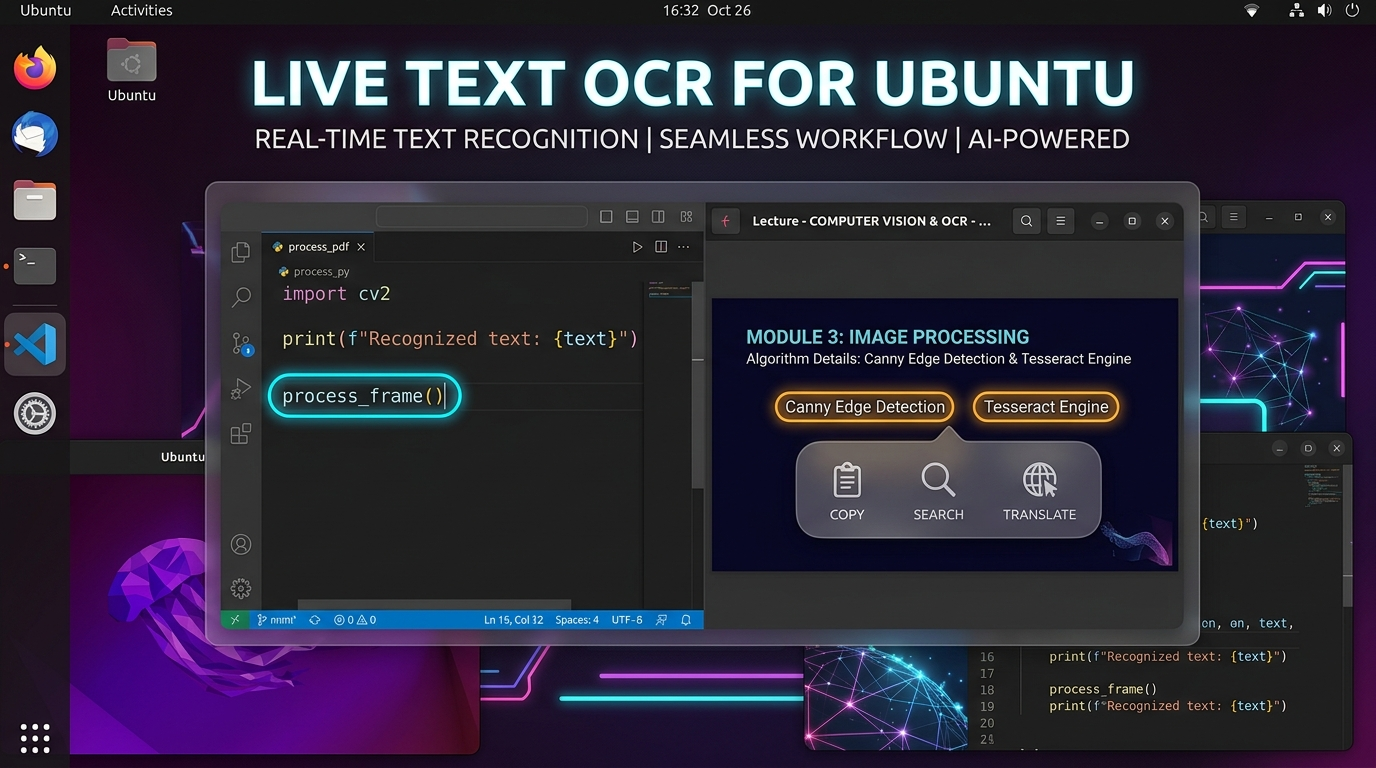
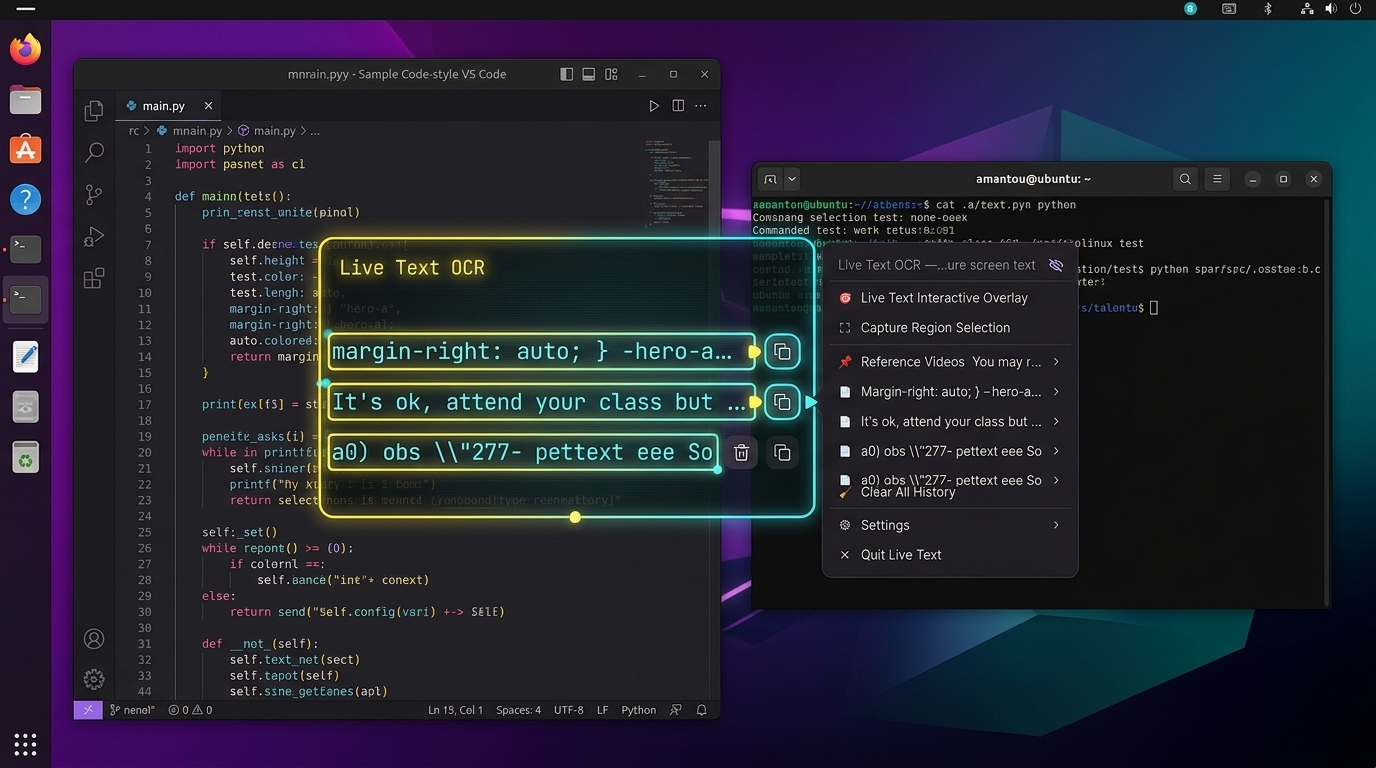
changed image

diff --git a/src/components/AnimatedLogo.jsx b/src/components/AnimatedLogo.jsx
@@ -1,0 +1,110 @@
+import React from 'react';
+import { motion } from 'framer-motion';
+
+const pathVariants = {
+  hidden: {
+    pathLength: 0,
+    opacity: 0,
+    fillOpacity: 0,
+  },
+  visible: (delay) => ({
+    pathLength: 1,
+    opacity: 1,
+    fillOpacity: 1,
+    transition: {
+      pathLength: { duration: 1.2, ease: [0.22, 1, 0.36, 1], delay },
+      opacity: { duration: 0.3, delay },
+      fillOpacity: { duration: 0.6, delay: delay + 0.8 },
+    },
+  }),
+};
+
+const glowVariants = {
+  initial: { opacity:0, scale: 0.8 },
+  animate: {
+    opacity: [0, 0.4, 0],
+    scale: [1, 1.15, 1],
+    transition: { duration: 2.5, repeat: Infinity, ease: 'easeInOut' },
+  },
+};
+
+const AnimatedLogo = ({
+  className = 'w-10 h-10',
+  color = '#4dff00',
+  glowColor = '#4dff00',
+  showGlow = true,
+  animateOnHover = true,
+}) => {
+  return (
+    <motion.svg
+      className={className}
+      viewBox="0 0 56.6 42.1"
+      xmlns="http://www.w3.org/2000/svg"
+      initial="hidden"
+      animate="visible"
+      whileHover={animateOnHover ? { scale: 1.08 } : {}}
+      transition={{ type: 'spring', stiffness: 300, damping: 15 }}
+    >
+      <defs>
+        <filter id="logoGlow" x="-50%" y="-50%" width="200%" height="200%">
+          <feGaussianBlur in="SourceGraphic" stdDeviation="3" result="blur" />
+          <feColorMatrix
+            in="blur"
+            type="matrix"
+            values="1 0 0 0 0  0 1 0 0 0  0 0 1 0 0  0 0 0 18 -7"
+            result="goo"
+          />
+          <feBlend in="SourceGraphic" in2="goo" />
+        </filter>
+      </defs>
+
+      {showGlow && (
+        <motion.g
+          variants={glowVariants}
+          initial="initial"
+          animate="animate"
+          style={{ fill: glowColor, filter: 'url(#logoGlow)' }}
+        >
+          <path d="M22.5,0c.6,0,1.6,0,2.4,0,2.3,0,4.9,0,7,0,1.8,0,2.7.3,3.6,1.2.8.7,1.3,1.8,1.7,3,.4,1,1.1,2.1,1.6,3.1,1.6,3.1,3.3,6.2,4.8,9.4,1,2,2.2,4.1,3.3,6.2,2.2,4.2,4.3,8.3,6.5,12.4.8,1.5,1.6,3.1,2.4,4.7.2.5.8,1.2.6,1.6-.2.5-1.3.3-2.1.3h-7c-.9,0-1.5,0-2.4,0-.7,0-1.3-.4-1.7-.7-1-.7-1.4-1.7-2-2.8-1.2-2.1-2.2-4.2-3.3-6.3-.3-.5-.6-1-.9-1.6-.3-.5-.4-1.1-.7-1.7-1.6-3.2-3.2-6.3-4.8-9.5-.5-1.1-1.2-2.1-1.6-3.2-.5-1.1-1.1-2.1-1.6-3.1-1.9-3.8-3.7-7.3-5.7-11.1-.2-.4-.8-1.2-.7-1.7,0-.3.3-.4.6-.4h0Z" />
+          <path d="M0,41.6c0-.7.5-1.3.8-1.9.9-1.8,1.9-3.5,2.8-5.3.6-1.2,1.1-2.4,1.9-3.6,1.1-1.7,1.9-3.5,2.8-5.3.9-1.8,1.8-3.6,2.7-5.4.6-1.1,1.2-2.4,1.9-3.5.8-1.2,1.8-2,3.5-2.1.9,0,1.8,0,2.8,0,1.9,0,3.6,0,5.6,0,.6,0,2.2-.2,2.4.3.2.4-.5,1.3-.7,1.7-3.8,7-7.4,14-11.1,21-1,1.9-1.8,4.1-4.4,4.4-1.1.1-2.5,0-3.8,0-1.8,0-3.8,0-5.7,0s-1.3.1-1.6-.3H0Z" />
+          <path d="M41.3,41.7c-.4.6-1.6.4-2.6.4-1.9,0-3.7,0-5.8,0s-2.9.2-3.8-.2c-1.6-.6-2.4-2.5-3.2-4-.5-.9-1-1.8-1.5-2.7-.5-.8-.9-1.8-1.4-2.7-.2-.4-.5-.9-.7-1.4-.3-.6-1.1-1.7-.1-1.8.8-.1,1.8,0,2.7,0,1.8,0,3.7,0,5.4,0,1.7,0,3.2-.1,4.3.5,1.3.8,2,2.3,2.6,3.7.3.7.7,1.4,1.1,2.1.7,1.4,1.4,2.7,2.1,4.1.4.7.8,1.3,1,2.1h0Z" />
+        </motion.g>
+      )}
+
+      <g transform="translate(2.38,1.75) scale(0.92)">
+        <motion.path
+          d="M22.5,0c.6,0,1.6,0,2.4,0,2.3,0,4.9,0,7,0,1.8,0,2.7.3,3.6,1.2.8.7,1.3,1.8,1.7,3,.4,1,1.1,2.1,1.6,3.1,1.6,3.1,3.3,6.2,4.8,9.4,1,2,2.2,4.1,3.3,6.2,2.2,4.2,4.3,8.3,6.5,12.4.8,1.5,1.6,3.1,2.4,4.7.2.5.8,1.2.6,1.6-.2.5-1.3.3-2.1.3h-7c-.9,0-1.5,0-2.4,0-.7,0-1.3-.4-1.7-.7-1-.7-1.4-1.7-2-2.8-1.2-2.1-2.2-4.2-3.3-6.3-.3-.5-.6-1-.9-1.6-.3-.5-.4-1.1-.7-1.7-1.6-3.2-3.2-6.3-4.8-9.5-.5-1.1-1.2-2.1-1.6-3.2-.5-1.1-1.1-2.1-1.6-3.1-1.9-3.8-3.7-7.3-5.7-11.1-.2-.4-.8-1.2-.7-1.7,0-.3.3-.4.6-.4h0Z"
+          fill={color}
+          stroke={color}
+          strokeWidth={0.8}
+          strokeLinecap="round"
+          strokeLinejoin="round"
+          variants={pathVariants}
+          custom={0}
+        />
+        <motion.path
+          d="M0,41.6c0-.7.5-1.3.8-1.9.9-1.8,1.9-3.5,2.8-5.3.6-1.2,1.1-2.4,1.9-3.6,1.1-1.7,1.9-3.5,2.8-5.3.9-1.8,1.8-3.6,2.7-5.4.6-1.1,1.2-2.4,1.9-3.5.8-1.2,1.8-2,3.5-2.1.9,0,1.8,0,2.8,0,1.9,0,3.6,0,5.6,0,.6,0,2.2-.2,2.4.3.2.4-.5,1.3-.7,1.7-3.8,7-7.4,14-11.1,21-1,1.9-1.8,4.1-4.4,4.4-1.1.1-2.5,0-3.8,0-1.8,0-3.8,0-5.7,0s-1.3.1-1.6-.3H0Z"
+          fill={color}
+          stroke={color}
+          strokeWidth={0.8}
+          strokeLinecap="round"
+          strokeLinejoin="round"
+          variants={pathVariants}
+          custom={0.25}
+        />
+        <motion.path
+          d="M41.3,41.7c-.4.6-1.6.4-2.6.4-1.9,0-3.7,0-5.8,0s-2.9.2-3.8-.2c-1.6-.6-2.4-2.5-3.2-4-.5-.9-1-1.8-1.5-2.7-.5-.8-.9-1.8-1.4-2.7-.2-.4-.5-.9-.7-1.4-.3-.6-1.1-1.7-.1-1.8.8-.1,1.8,0,2.7,0,1.8,0,3.7,0,5.4,0,1.7,0,3.2-.1,4.3.5,1.3.8,2,2.3,2.6,3.7.3.7.7,1.4,1.1,2.1.7,1.4,1.4,2.7,2.1,4.1.4.7.8,1.3,1,2.1h0Z"
+          fill={color}
+          stroke={color}
+          strokeWidth={0.8}
+          strokeLinecap="round"
+          strokeLinejoin="round"
+          variants={pathVariants}
+          custom={0.5}
+        />
+      </g>
+    </motion.svg>
+  );
+};
+
+export default AnimatedLogo;

diff --git a/src/components/Navbar.jsx b/src/components/Navbar.jsx
@@ -1,5 +1,6 @@
 import React from 'react';
 import { useLocation, useNavigate, Link } from 'react-router-dom';
+import AnimatedLogo from './AnimatedLogo';
 
 const navItems = [
   { label: 'About', href: '#about', isRoute: false },
@@ -33,7 +34,16 @@ export const Navbar = ({ onOpenTerminal }) => {
 
   return (
     <header className="fixed top-3.5 sm:top-5 left-1/2 -translate-x-1/2 z-50 w-max max-w-[96vw]">
-      <nav className="flex items-center gap-2 sm:gap-4 md:gap-6 pl-4 pr-3 sm:px-6 py-1.5 sm:py-2 rounded-full bg-[#080d1a]/95 backdrop-blur-xl border border-slate-700/70 shadow-[0_10px_35px_rgba(0,0,0,0.6)] text-slate-300 font-medium">
+      <nav className="flex items-center gap-2 sm:gap-4 md:gap-6 pl-3 sm:pl-4 pr-3 sm:px-6 py-1.5 sm:py-2 rounded-full bg-[#080d1a]/95 backdrop-blur-xl border border-slate-700/70 shadow-[0_10px_35px_rgba(0,0,0,0.6)] text-slate-300 font-medium">
+        <Link to="/" className="flex items-center gap-2 group" aria-label="Aditya Kumar Maurya — Home">
+          <AnimatedLogo className="w-6 h-6 sm:w-7 sm:h-7" color="#22d3ee" glowColor="#22d3ee" showGlow />
+          <span className="hidden sm:block text-sm font-bold text-slate-100 group-hover:text-white transition-colors">
+            Aditya.
+          </span>
+        </Link>
+
+        <span className="hidden sm:block w-px h-5 bg-slate-700/60" />
+
         {navItems.map((item) => {
           if (item.isRoute) {
             return (

diff --git a/src/App.jsx b/src/App.jsx
@@ -15,6 +15,7 @@ import GlobalParticles from './components/GlobalParticles';
 import Navbar from './components/Navbar';
 import TerminalModal from './components/TerminalModal';
 import CustomCursor from './components/CustomCursor';
+import ScrollToTop from './components/ScrollToTop';
 import { useState } from 'react';
 
 const pageMetadata = {
@@ -87,6 +88,7 @@ function App() {
   return (
     <Router>
       <SeoMeta />
+      <ScrollToTop />
       <CustomCursor />
       <GlobalParticles />
       <Navbar onOpenTerminal={() => setIsTerminalOpen(true)} />

diff --git a/src/components/ScrollToTop.jsx b/src/components/ScrollToTop.jsx
@@ -1,0 +1,14 @@
+import { useEffect } from 'react';
+import { useLocation } from 'react-router-dom';
+
+const ScrollToTop = () => {
+  const { pathname } = useLocation();
+
+  useEffect(() => {
+    window.scrollTo({ top: 0, left: 0, behavior: 'instant' });
+  }, [pathname]);
+
+  return null;
+};
+
+export default ScrollToTop;
